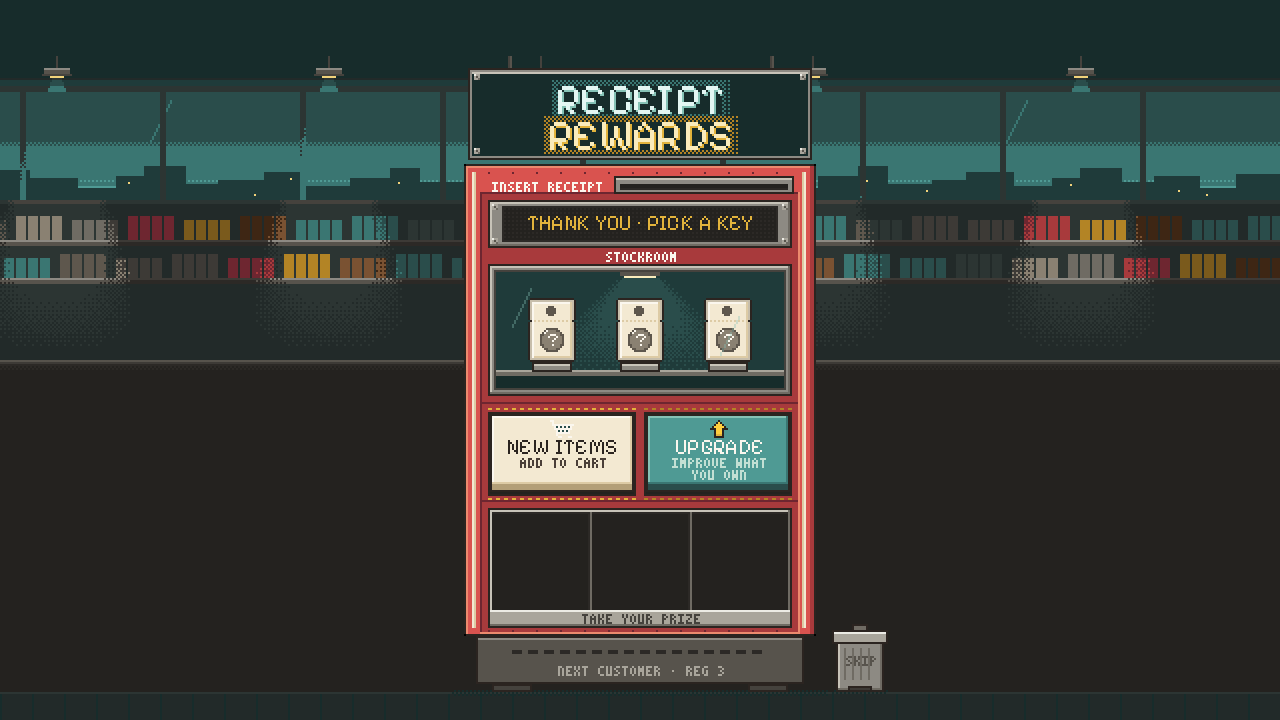
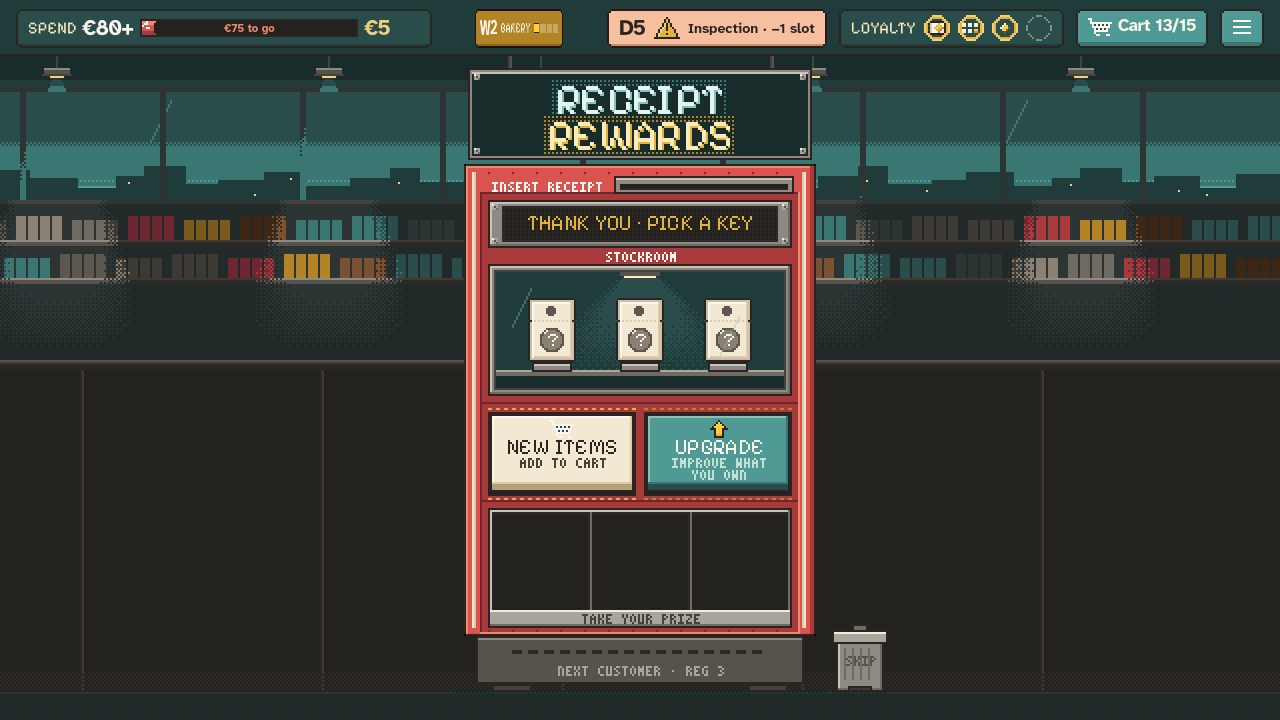
Show the v0.84 top bar over the receipt machine mock-up
The newest shift-scene branch (feature/crowd-shadow-top-bar) keeps
PR #126's store and machine stop; only the top bar changed, and it
stays on screen at the stop.

Claude-Session: https://claude.ai/code/session_01D5yuvHkofJXP2ehbziJ8zS

Changed region(s): [[0.4688, 0.0, 1.0, 0.0611], [0.0, 0.0, 0.4375, 0.0917]]

diff --git a/docs/art/mockups/receipt_machine_da.html b/docs/art/mockups/receipt_machine_da.html
@@ -54,7 +54,7 @@ body.solo .stage-wrap { border: 0; outline: 0; width: 1280px; max-width: none; }
 <body>
 <main>
 <h1>RECEIPT REWARDS · redraw</h1>
-<p class="lede">The receipt machine redrawn in the art direction the title, the toy machines and the new shift scene (PR #126, #123) share: palette colours only, pixel art on the 640×360 art grid, hard pixel lettering, steel housings with a screw in each corner, lamp light as a dithered pool, and an outline only on what the player touches. It stands at its camera stop to the right of the stage, in front of PR #126's store. Mock-up only: no rule or flow changes. The visit is the one in plan section 5.4 (v0.61 and later): two keys, three tickets, pick one or skip.</p>
+<p class="lede">The receipt machine redrawn in the art direction the title, the toy machines and the new shift scene (PR #126, #123) share: palette colours only, pixel art on the 640×360 art grid, hard pixel lettering, steel housings with a screw in each corner, lamp light as a dithered pool, and an outline only on what the player touches. It stands at its camera stop to the right of the stage, in front of PR #126's store, under the top bar from the newest shift-scene branch (<code>feature/crowd-shadow-top-bar</code>, v0.84; its store and the machine's stop are unchanged from PR #126). Mock-up only: no rule or flow changes. The visit is the one in plan section 5.4 (v0.61 and later): two keys, three tickets, pick one or skip.</p>
 
 <div class="stage-wrap"><canvas class="stage" id="stage" width="1280" height="720" aria-label="The redrawn receipt machine at its camera stop"></canvas></div>
 <div class="bar">
@@ -715,6 +715,7 @@ const IMG_SRC = {
[4 lines of base64/hex data omitted]
 };
 const img = {};
 const Q = new URLSearchParams(location.search);
@@ -745,7 +746,11 @@ function render(canvas, s, t, scale, crop) {
   tg.drawImage(t2, 0, 0);
   g.clearRect(0, 0, canvas.width, canvas.height);
   if (crop) g.drawImage(tmp, crop[0], crop[1], crop[2], crop[3], 0, 0, crop[2] * scale, crop[3] * scale);
-  else g.drawImage(tmp, 0, 0, W * scale, H * scale);
+  else {
+    g.drawImage(tmp, 0, 0, W * scale, H * scale);
+    // the game's top bar (feature/crowd-shadow-top-bar, v0.84): it stays on screen at the machine's stop
+    if (img.top_bar && img.top_bar.naturalWidth) g.drawImage(img.top_bar, 0, 0, W * scale, 28 * scale);
+  }
 }
 
 const stage = document.getElementById('stage');

diff --git a/docs/art/mockups/receipt_machine_da_src/template.html b/docs/art/mockups/receipt_machine_da_src/template.html
@@ -54,7 +54,7 @@ body.solo .stage-wrap { border: 0; outline: 0; width: 1280px; max-width: none; }
 <body>
 <main>
 <h1>RECEIPT REWARDS · redraw</h1>
-<p class="lede">The receipt machine redrawn in the art direction the title, the toy machines and the new shift scene (PR #126, #123) share: palette colours only, pixel art on the 640×360 art grid, hard pixel lettering, steel housings with a screw in each corner, lamp light as a dithered pool, and an outline only on what the player touches. It stands at its camera stop to the right of the stage, in front of PR #126's store. Mock-up only: no rule or flow changes. The visit is the one in plan section 5.4 (v0.61 and later): two keys, three tickets, pick one or skip.</p>
+<p class="lede">The receipt machine redrawn in the art direction the title, the toy machines and the new shift scene (PR #126, #123) share: palette colours only, pixel art on the 640×360 art grid, hard pixel lettering, steel housings with a screw in each corner, lamp light as a dithered pool, and an outline only on what the player touches. It stands at its camera stop to the right of the stage, in front of PR #126's store, under the top bar from the newest shift-scene branch (<code>feature/crowd-shadow-top-bar</code>, v0.84; its store and the machine's stop are unchanged from PR #126). Mock-up only: no rule or flow changes. The visit is the one in plan section 5.4 (v0.61 and later): two keys, three tickets, pick one or skip.</p>
 
 <div class="stage-wrap"><canvas class="stage" id="stage" width="1280" height="720" aria-label="The redrawn receipt machine at its camera stop"></canvas></div>
 <div class="bar">
@@ -116,6 +116,7 @@ const IMG_SRC = {
   grapefruit_big: '__ASSET:art/items_v2/grapefruit_big.png__',
   fruit_salad_big: '__ASSET:art/items_v2/fruit_salad_big.png__',
   banana_golden: '__ASSET:art/items_v2/banana_golden.png__',
+  top_bar: '__ASSET:docs/art/mockups/receipt_machine_da_src/top_bar_v084.png__',
 };
 const img = {};
 const Q = new URLSearchParams(location.search);
@@ -146,7 +147,11 @@ function render(canvas, s, t, scale, crop) {
   tg.drawImage(t2, 0, 0);
   g.clearRect(0, 0, canvas.width, canvas.height);
   if (crop) g.drawImage(tmp, crop[0], crop[1], crop[2], crop[3], 0, 0, crop[2] * scale, crop[3] * scale);
-  else g.drawImage(tmp, 0, 0, W * scale, H * scale);
+  else {
+    g.drawImage(tmp, 0, 0, W * scale, H * scale);
+    // the game's top bar (feature/crowd-shadow-top-bar, v0.84): it stays on screen at the machine's stop
+    if (img.top_bar && img.top_bar.naturalWidth) g.drawImage(img.top_bar, 0, 0, W * scale, 28 * scale);
+  }
 }
 
 const stage = document.getElementById('stage');

diff --git a/docs/art/mockups/README.md b/docs/art/mockups/README.md
@@ -86,6 +86,6 @@ Re-generating: `python docs/art/mockups/family_identities_128_src/build.py` (run
 
 ## Receipt machine redraw (2026-11-01)
 
-`receipt_machine_da.html` redraws the RECEIPT REWARDS machine in the art direction of the title, the toy machines (#121) and the clean shift scene (#123, PR #126): pixel art on the 640x360 grid in palette colours, at its camera stop in front of PR #126's store (`StoreArt`, ported). Its parts: a neon head sign, a receipt slot, an amber LED in a screwed steel housing, a lit stockroom window with the real sealed tickets, two chunky keys with indicator rings, a three-bay prize tray with rarity tabs, a coin-base plinth and the SKIP pedal bin. It plays a whole visit, with a PREMIUM face and three body colours, and asks four questions. Mock-up only. Stills are in `receipt_machine_da/`.
+`receipt_machine_da.html` redraws the RECEIPT REWARDS machine in the art direction of the title, the toy machines (#121) and the clean shift scene (#123, PR #126): pixel art on the 640x360 grid in palette colours, at its camera stop in front of PR #126's store (`StoreArt`, ported), under the top bar of the newest shift-scene branch (`feature/crowd-shadow-top-bar`, v0.84; `receipt_machine_da_src/top_bar_v084.png` is cropped from its capture). Its parts: a neon head sign, a receipt slot, an amber LED in a screwed steel housing, a lit stockroom window with the real sealed tickets, two chunky keys with indicator rings, a three-bay prize tray with rarity tabs, a coin-base plinth and the SKIP pedal bin. It plays a whole visit, with a PREMIUM face and three body colours, and asks four questions. Mock-up only. Stills are in `receipt_machine_da/`.
 
 Re-generating: `python docs/art/mockups/receipt_machine_da_src/build.py`, then `node docs/art/mockups/receipt_machine_da_src/stills.js`. URL options: `stage=insert|reading|choose|draw|reveal`, `hover=new|up|p0|p1|p2|bin`, `body=cream|teal|tomato`, `premium=1`, `t=<s>`, `solo=1`.
